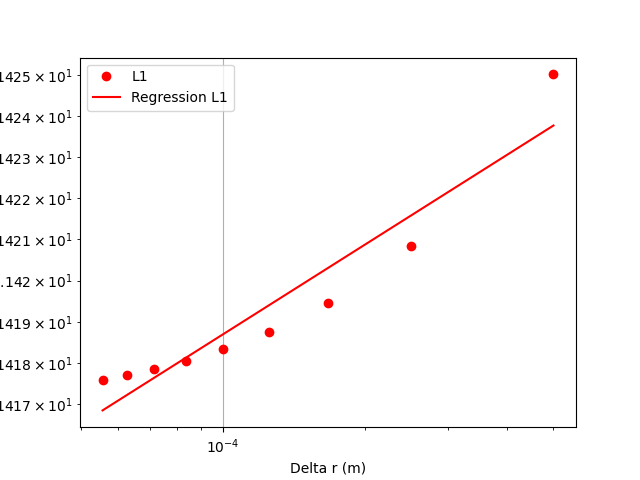
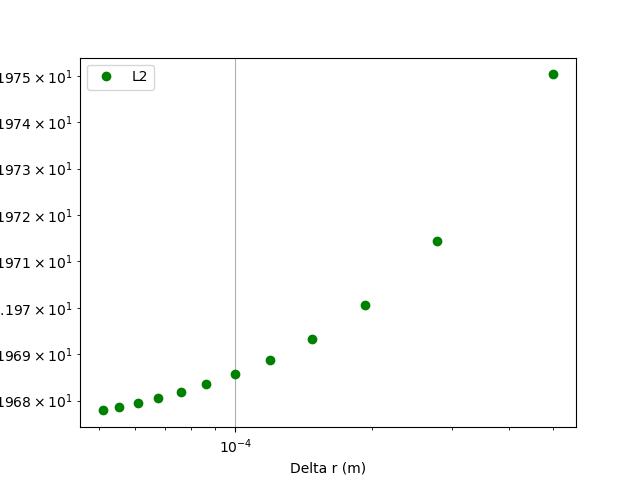
Ajout de la methode de Gear pour le cas 2.

diff --git a/Devoir 1/src/main.py b/Devoir 1/src/main.py
@@ -24,8 +24,8 @@ a1,b1,c1,a2,b2,c2,r_i,delta_r = functions.Coefficients(Ntot)
 
 
 # Calcul des concentrations pour les deux cas et pour le cas analytique
-Concentrations_CAS1=functions.Concentrations(a1,b1,c1,Ntot)
-Concentrations_CAS2=functions.Concentrations(a2,b2,c2,Ntot)
+Concentrations_CAS1=functions.Concentrations(a1,b1,c1,Ntot,1)
+Concentrations_CAS2=functions.Concentrations(a2,b2,c2,Ntot,2)
 x_values = functions.x_values
 y_values = functions.y_values
 
@@ -49,10 +49,10 @@ vectL1 = []
 vectL2 = []
 vectLinf = []
 
-for N in range(1000, 10000, 1000):
+for N in range(1000, 10000, 800):
     a1,b1,c1,a2,b2,c2,r_i,delta_r = functions.Coefficients(N)
     vectDelta_r.append(delta_r)
-    Concentrations_CAS1=functions.Concentrations(a1,b1,c1,N)
+    Concentrations_CAS1=functions.Concentrations(a1,b1,c1,N,1)
     x_Nvalues,y_Nvalues=functions.C_analytique_N(N)
     L1=errors.ErreurL1(Concentrations_CAS1,x_Nvalues,N)
     vectL1.append(L1)
@@ -62,15 +62,15 @@ for N in range(1000, 10000, 1000):
     vectLinf.append(Linf)
 
 plt.figure()
-plt.plot(vectDelta_r, vectL1, 'o', color='red', label='L1')
-#plt.plot(vectDelta_r, vectL2, 'o', color='green', label='L2')
+#plt.plot(vectDelta_r, vectL1, 'o', color='red', label='L1')
+plt.plot(vectDelta_r, vectL2, 'o', color='green', label='L2')
 #plt.plot(vectDelta_r, vectLinf, 'o', color='blue', label='Linf')
 # Regression lineaire de L1
-a,b = np.polyfit(np.log(vectDelta_r), np.log(vectL1), 1)
-plt.plot(vectDelta_r, np.exp(a*np.log(vectDelta_r)+b), color='red', label='Regression L1')
+#a,b = np.polyfit(np.log(vectDelta_r[8:]), np.log(vectL1[8:]), 1)
+#plt.plot(vectDelta_r[8:], np.exp(a*np.log(vectDelta_r[8:])+b), color='red', label='Regression L1')
 # Regression lineaire de L2
-#c,d = np.polyfit(np.log(vectDelta_r), np.log(vectL2), 1)
-#plt.plot(vectDelta_r, np.exp(c*np.log(vectDelta_r)+d), color='green', label='Regression L2')
+#c,d = np.polyfit(np.log(vectDelta_r[8:]), np.log(vectL2[8:]), 1)
+#plt.plot(vectDelta_r[8:], np.exp(c*np.log(vectDelta_r[8:])+d), color='green', label='Regression L2')
 # Regression lineaire de Linf
 #e,f = np.polyfit(np.log(vectDelta_r), np.log(vectLinf), 1)
 #plt.plot(vectDelta_r, np.exp(e*np.log(vectDelta_r)+f), label='Regression Linf')

diff --git a/Devoir 1/src/functions.py b/Devoir 1/src/functions.py
@@ -70,16 +70,22 @@ def Coefficients(N):
 ###########################################
 # Calcul des concentrations pour Ntot points
 ###########################################
-def Concentrations(a,b,c,N):
+def Concentrations(a,b,c,N,numCas):
     # Fonction de calcul des N concentrations en différences finies
     C_i = np.zeros(N)
     matA = np.zeros((N,N))
     vectB = np.zeros(N)
 
     # Condition de Neumann à i = 0
-    matA[0,0] = 1
-    matA[0,1] = -1
-    vectB[0] = 0
+    if numCas == 1:     # Cas 1
+        matA[0,0] = 1
+        matA[0,1] = -1
+        vectB[0] = 0
+    elif numCas == 2:   # Cas 2 avec la méthode de Gear
+        matA[0,0] = -3
+        matA[0,1] = 4
+        matA[0,2] = -1
+        vectB[0] = 0
 
     # Condition de Dirichlet à i = N
     matA[-1,-1] = 1

diff --git a/Devoir 1/README.md b/Devoir 1/README.md
@@ -1,5 +1,7 @@
 # MEC8211-Devoir1
 
 Répertoire du devoir 1 du cours MEC8211.
+
 Pour exécuter le code, exécutez /src/main.py
+
 Pour voir les graphiques en .png, /results
